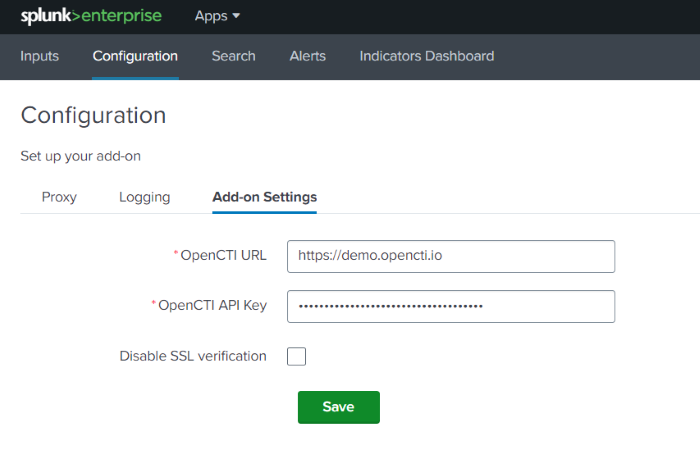
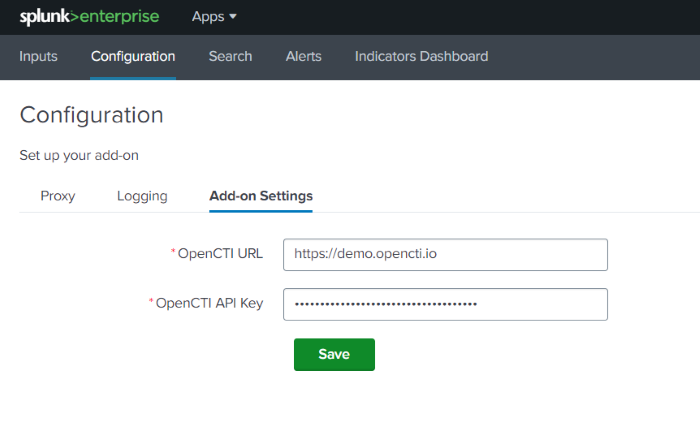
improvements to be compatible with Splunk Cloud validation process

diff --git a/README.md b/README.md
@@ -46,11 +46,10 @@ Proceed as follows to enable the "stateless mode" option:
 1. Navigate to Splunk Web UI home page, open the "OpenCTI add-on for Splunk" and navigate to "Configuration" page.
 2. Click on "Add-on settings" tab and complete the form with the required settings:
 
-| Parameter                  | Description                                  |
-|----------------------------|----------------------------------------------|
-| `OpenCTI URL`              | The URL of the OpenCTI platform              |
-| `OpenCTI API Key`          | The API Token of the previously created user |
-| `Disable SSL verification` | Enable or disable SSL verification           |
+| Parameter                  | Description                                                     |
+|----------------------------|-----------------------------------------------------------------|
+| `OpenCTI URL`              | The URL of the OpenCTI platform (A HTTPS connection is required |
+| `OpenCTI API Key`          | The API Token of the previously created user                    |
 
 ![](./.github/img/addon_settings.png "Add-on settings")
 
